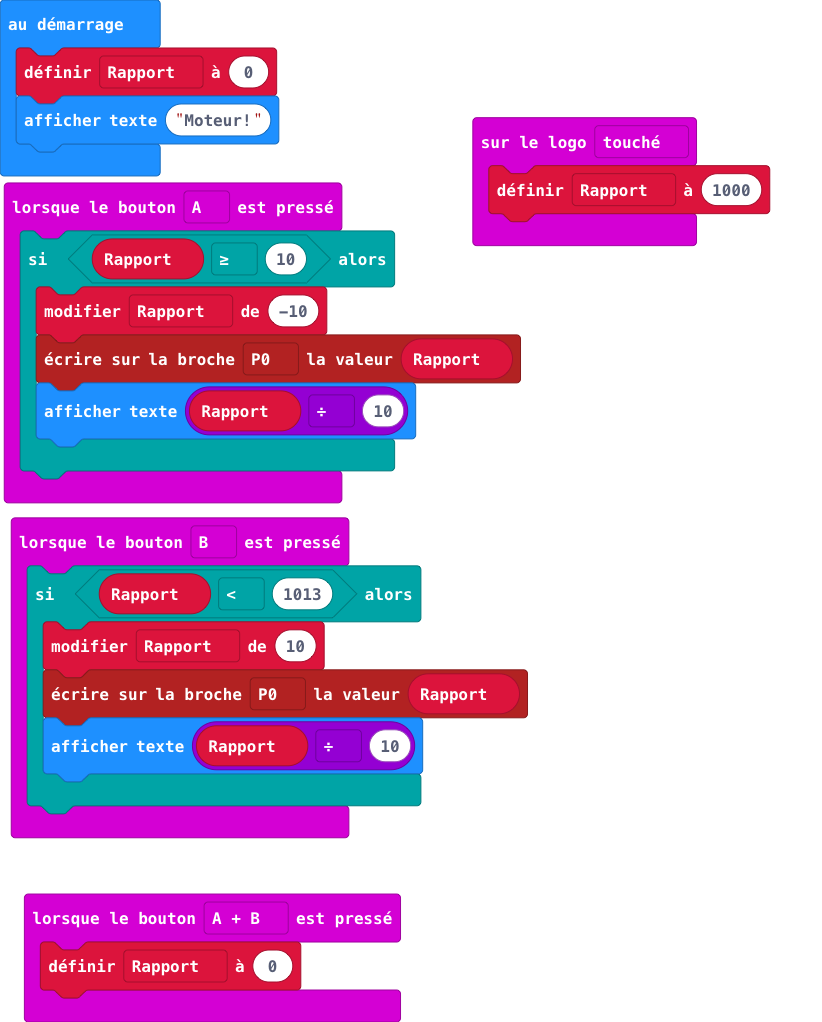
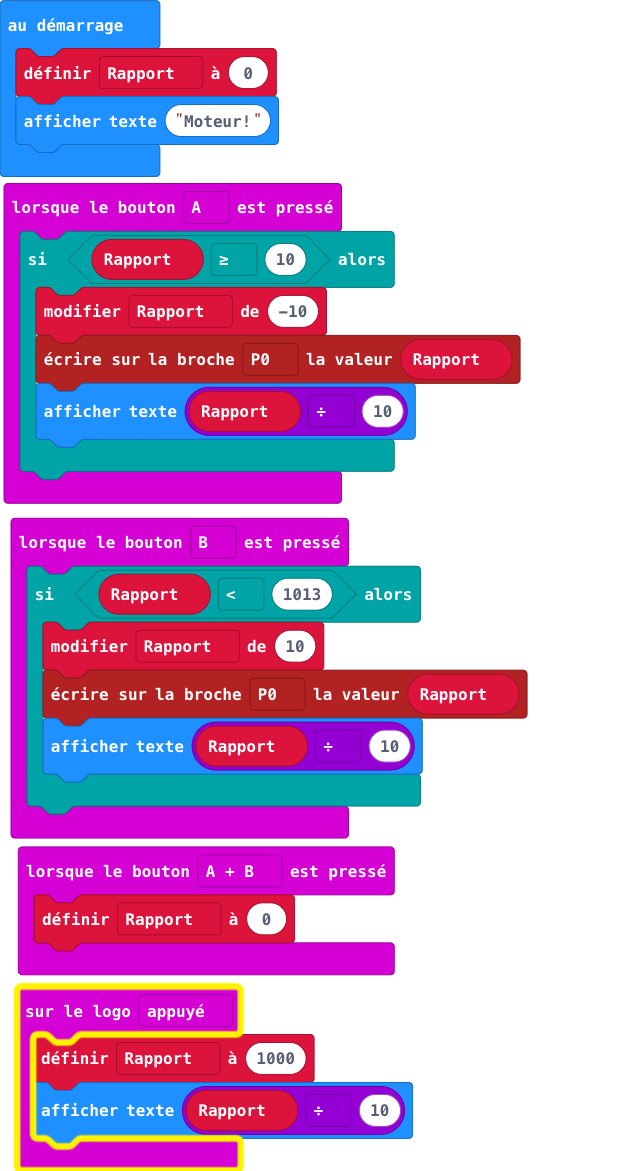
Mise à jour main.blocks, main.ts

diff --git a/main.ts b/main.ts
@@ -1,6 +1,3 @@
-input.onLogoEvent(TouchButtonEvent.Touched, function () {
-    Rapport = 1000
-})
 input.onButtonPressed(Button.A, function () {
     if (Rapport >= 10) {
         Rapport += -10
@@ -17,6 +14,10 @@ input.onButtonPressed(Button.B, function () {
         pins.digitalWritePin(DigitalPin.P0, Rapport)
         basic.showString("" + (Rapport / 10))
     }
+})
+input.onLogoEvent(TouchButtonEvent.Pressed, function () {
+    Rapport = 1000
+    basic.showString("" + (Rapport / 10))
 })
 let Rapport = 0
 Rapport = 0
